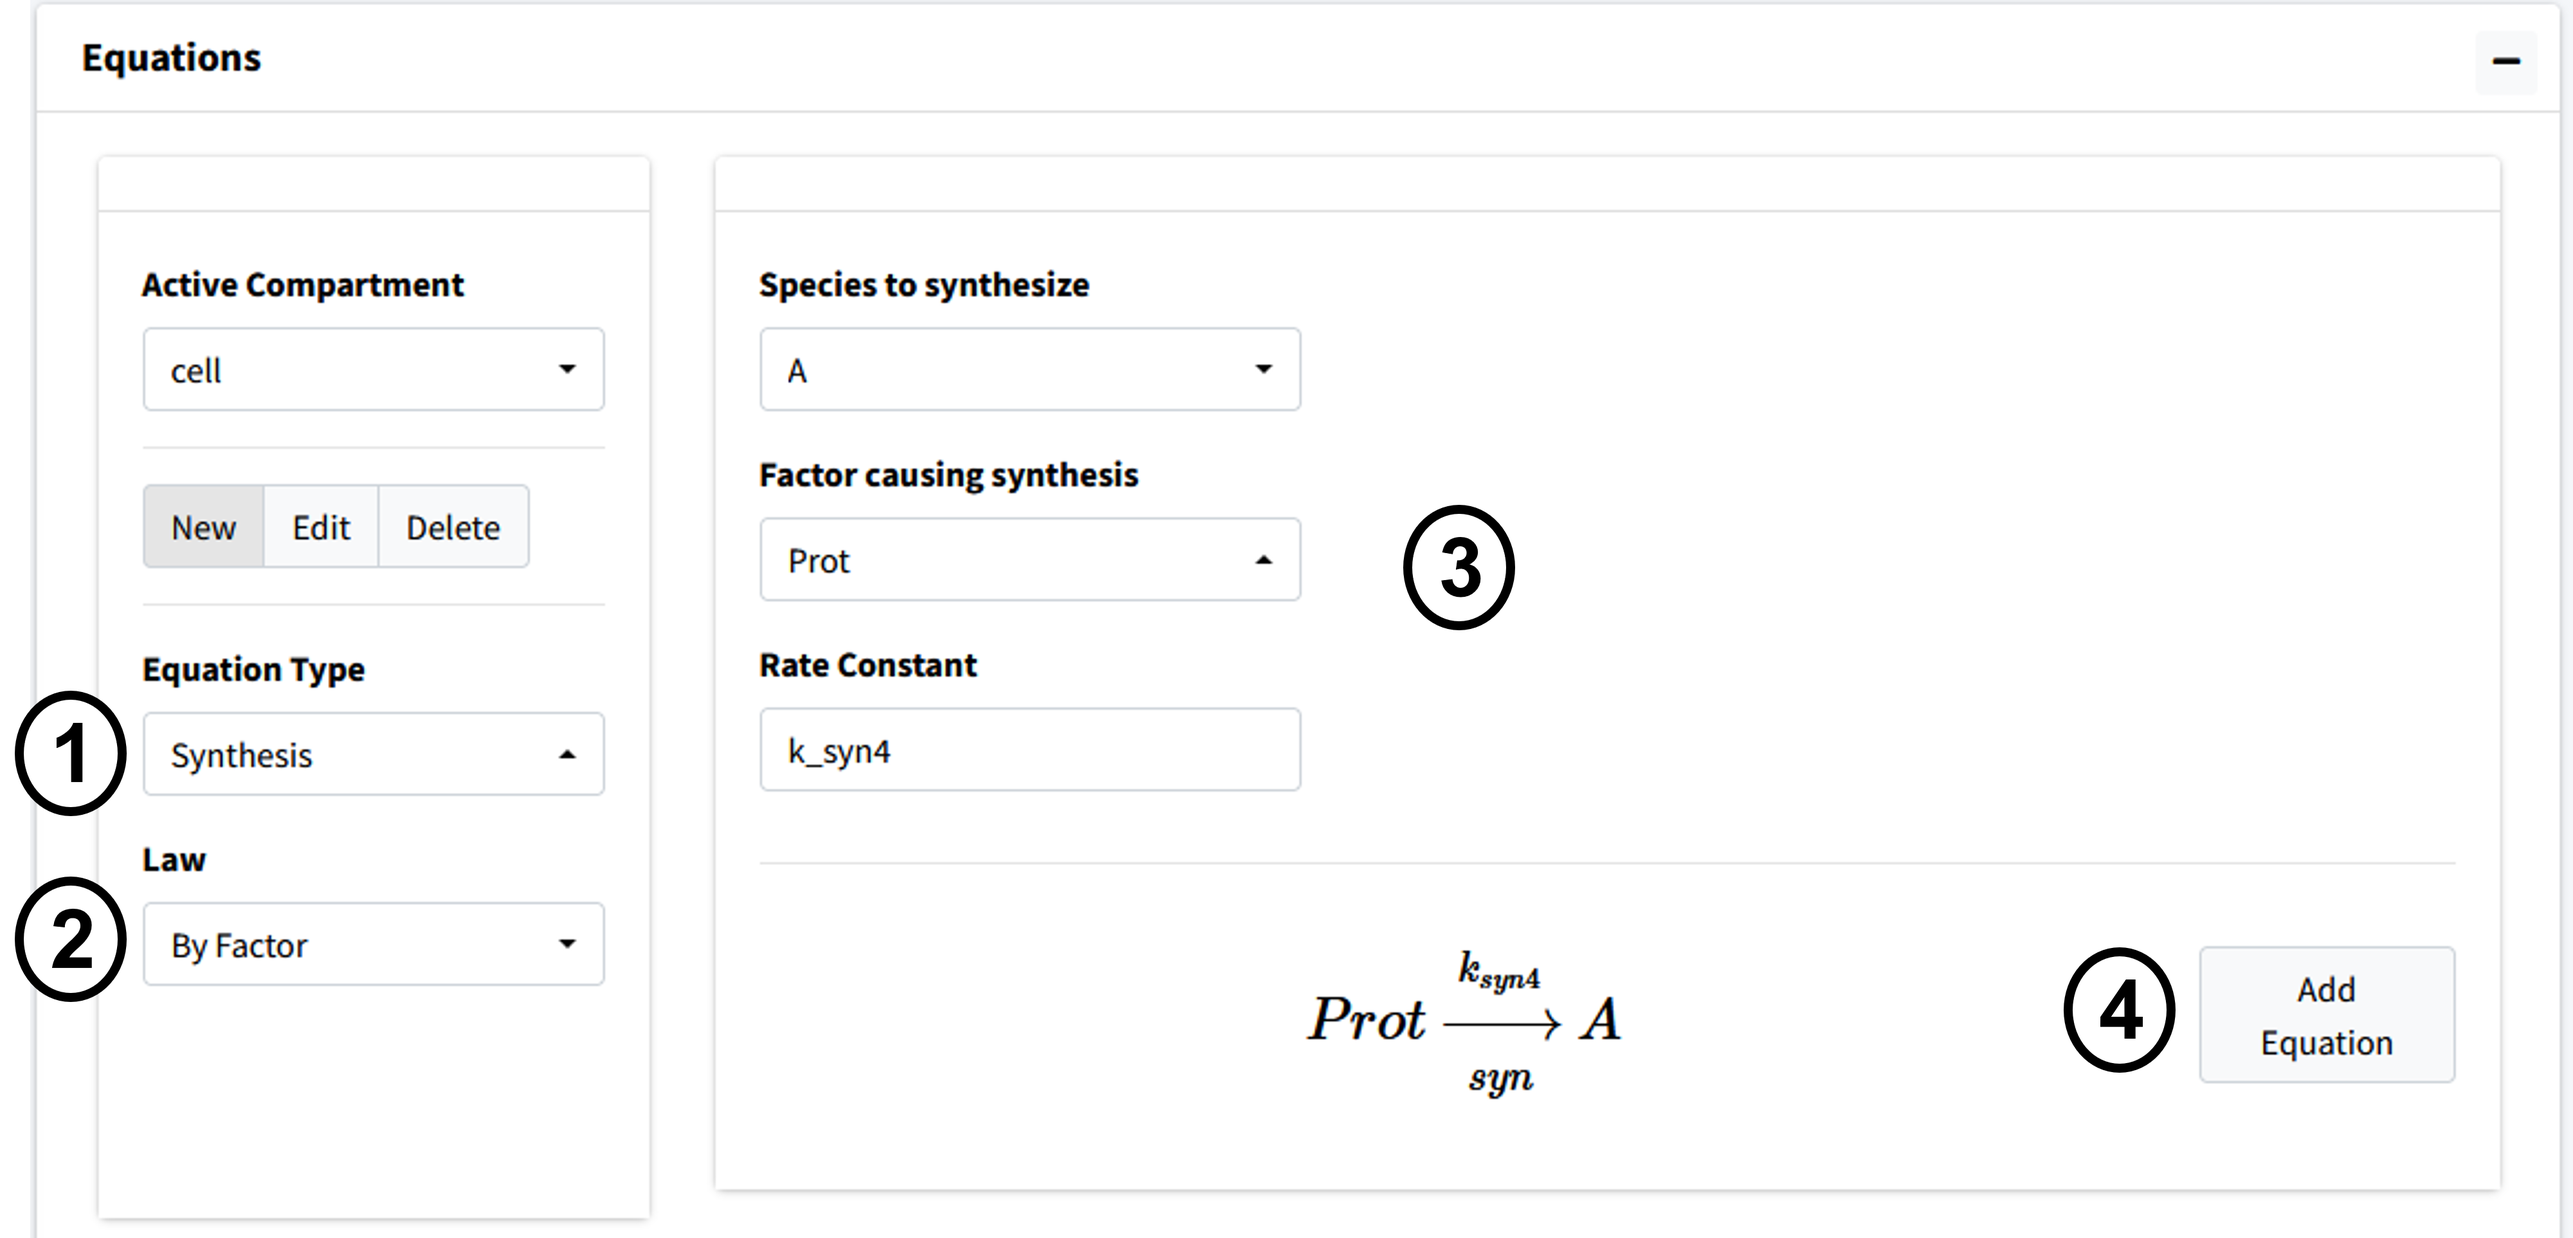
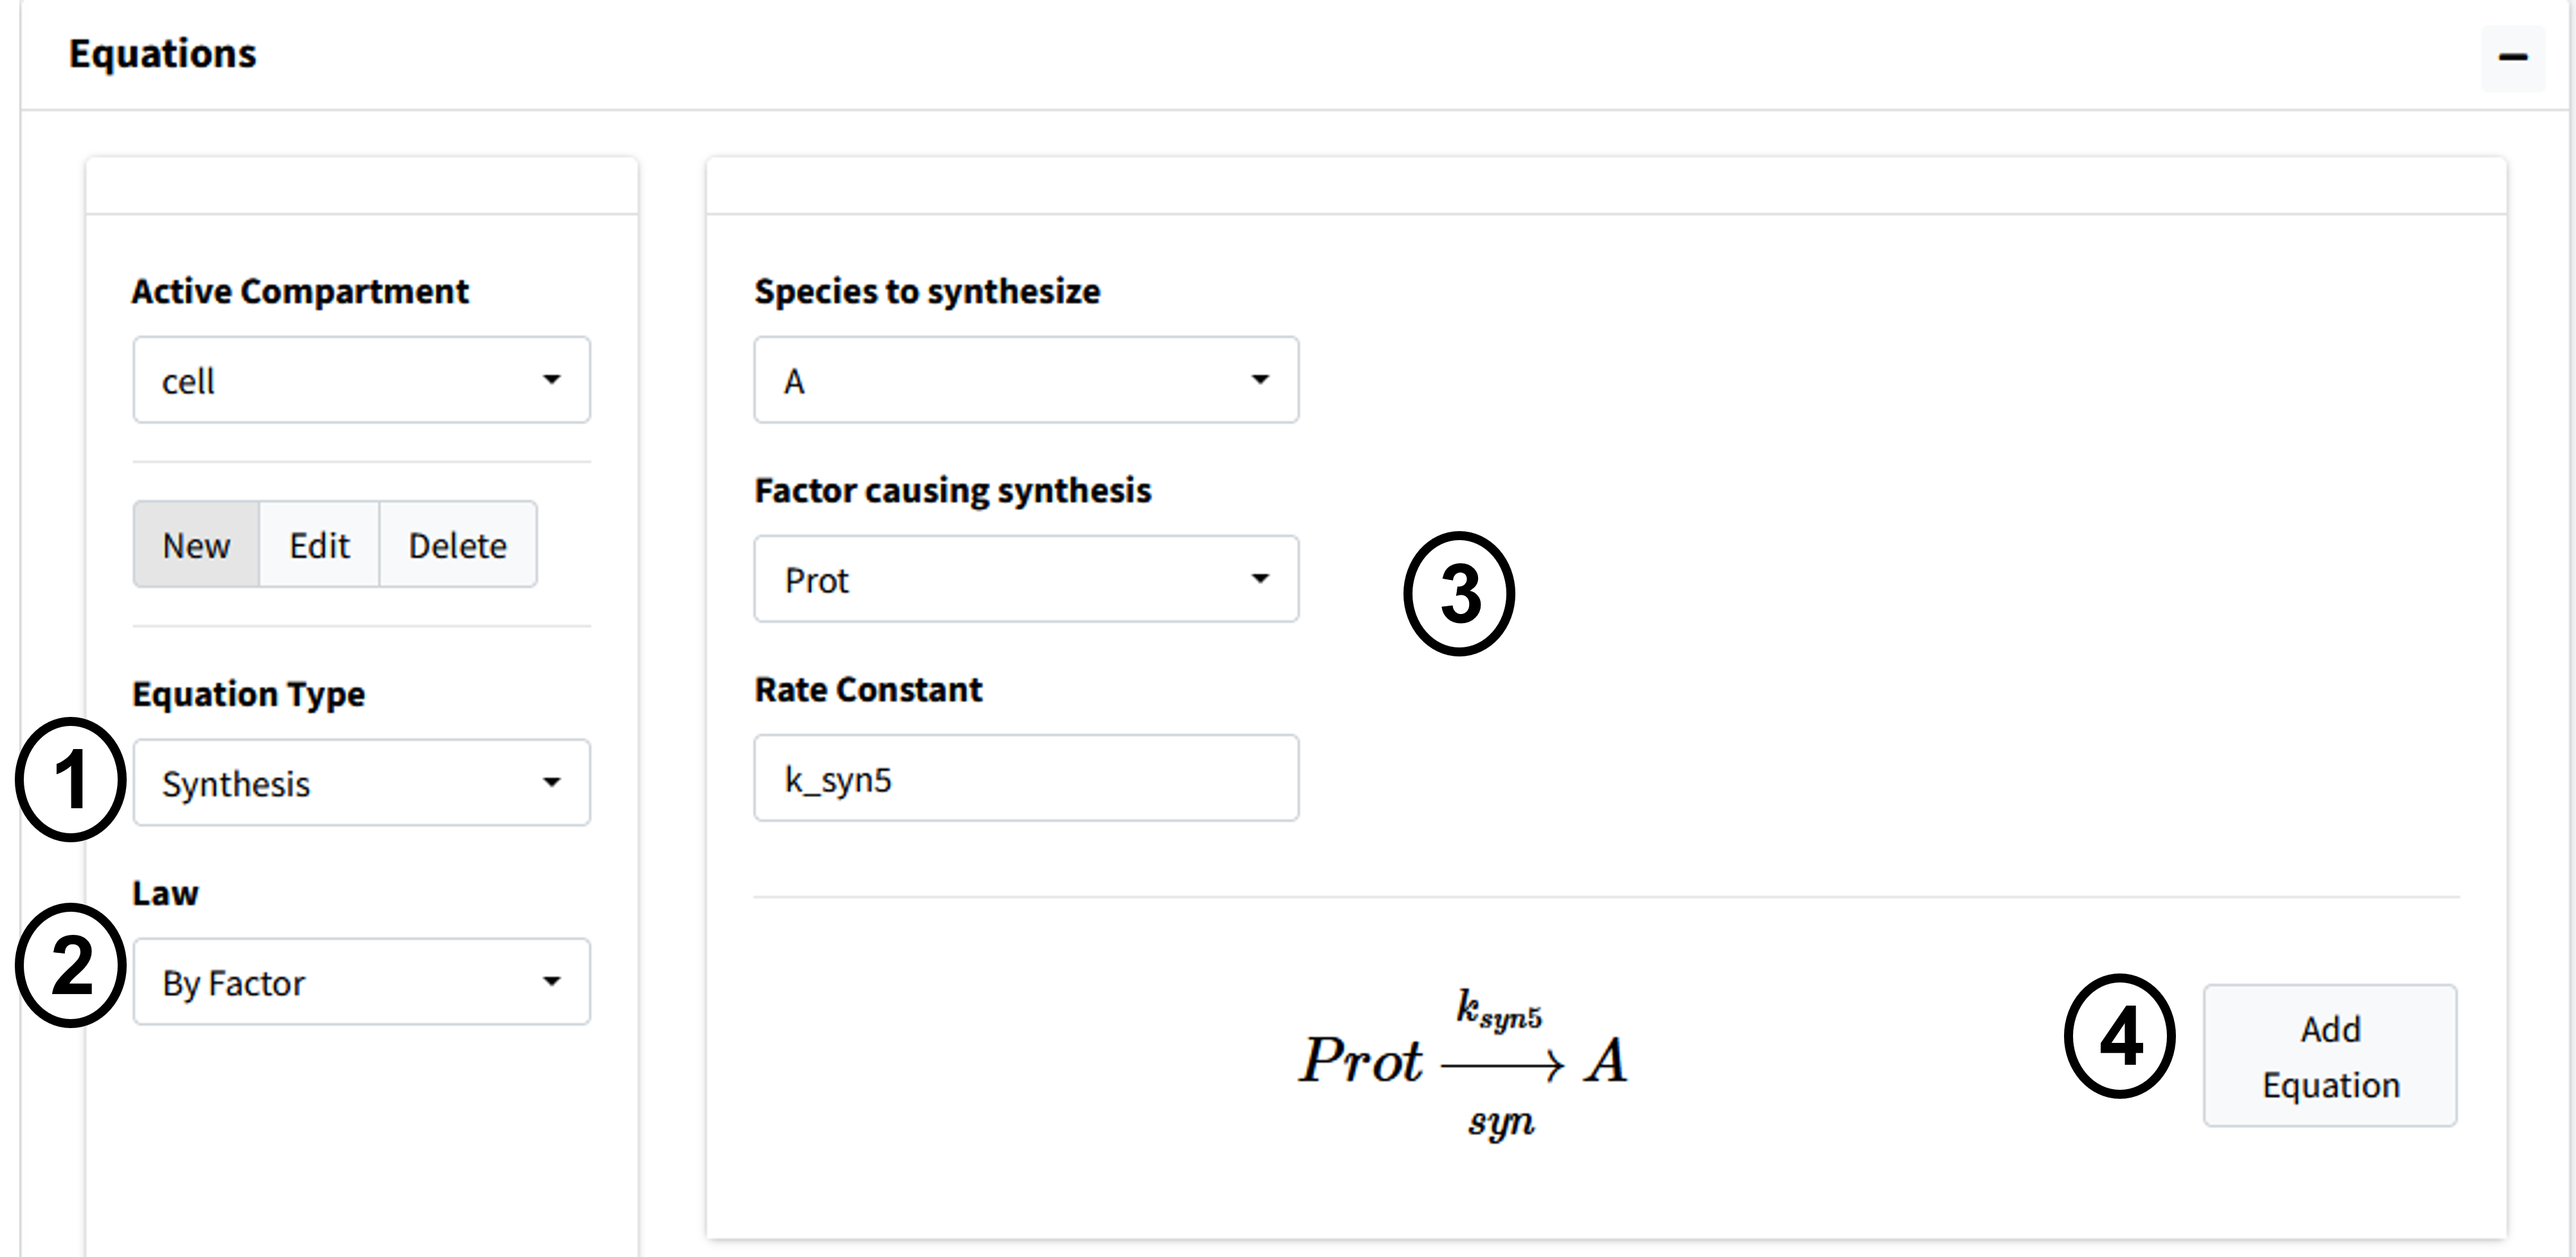
docs: fixed ksyn images, added unit text to exe

diff --git a/docs/pages/tutorial_sc/executemodel.rst b/docs/pages/tutorial_sc/executemodel.rst
@@ -5,7 +5,7 @@ Navigate to the "Execute Model" tab on the lefthand tabbar. This tab solves our
 model and provides us with the options to customize the solver. For this model,
 we will just solve using the standard options:
 
-#. Enter the following times: Starting = 0, End = 15, Step = 0.1.  
+#. Enter the following times: Starting = 0, End = 15, Step = 0.1, Unit = min.  
    This generates the model to be solved and integrated at time points 0, 0.1,
    0.2…..14.8, 14.9, 15. 
 #. Press the "Run Solver" button. 

diff --git a/docs/pages/tutorial_par_estimation.rst b/docs/pages/tutorial_par_estimation.rst
@@ -1,0 +1,11 @@
+==============================
+Parameter Estimation Tutorial
+==============================
+
+This is a basic parameter estimation tutorial.  
+
+We assume you have basic knowledge of creating a model and will skip showing
+every step of that process.
+
+Please see the parameter estimation documentation for details on the solver 
+and options available to use in the solver. 
